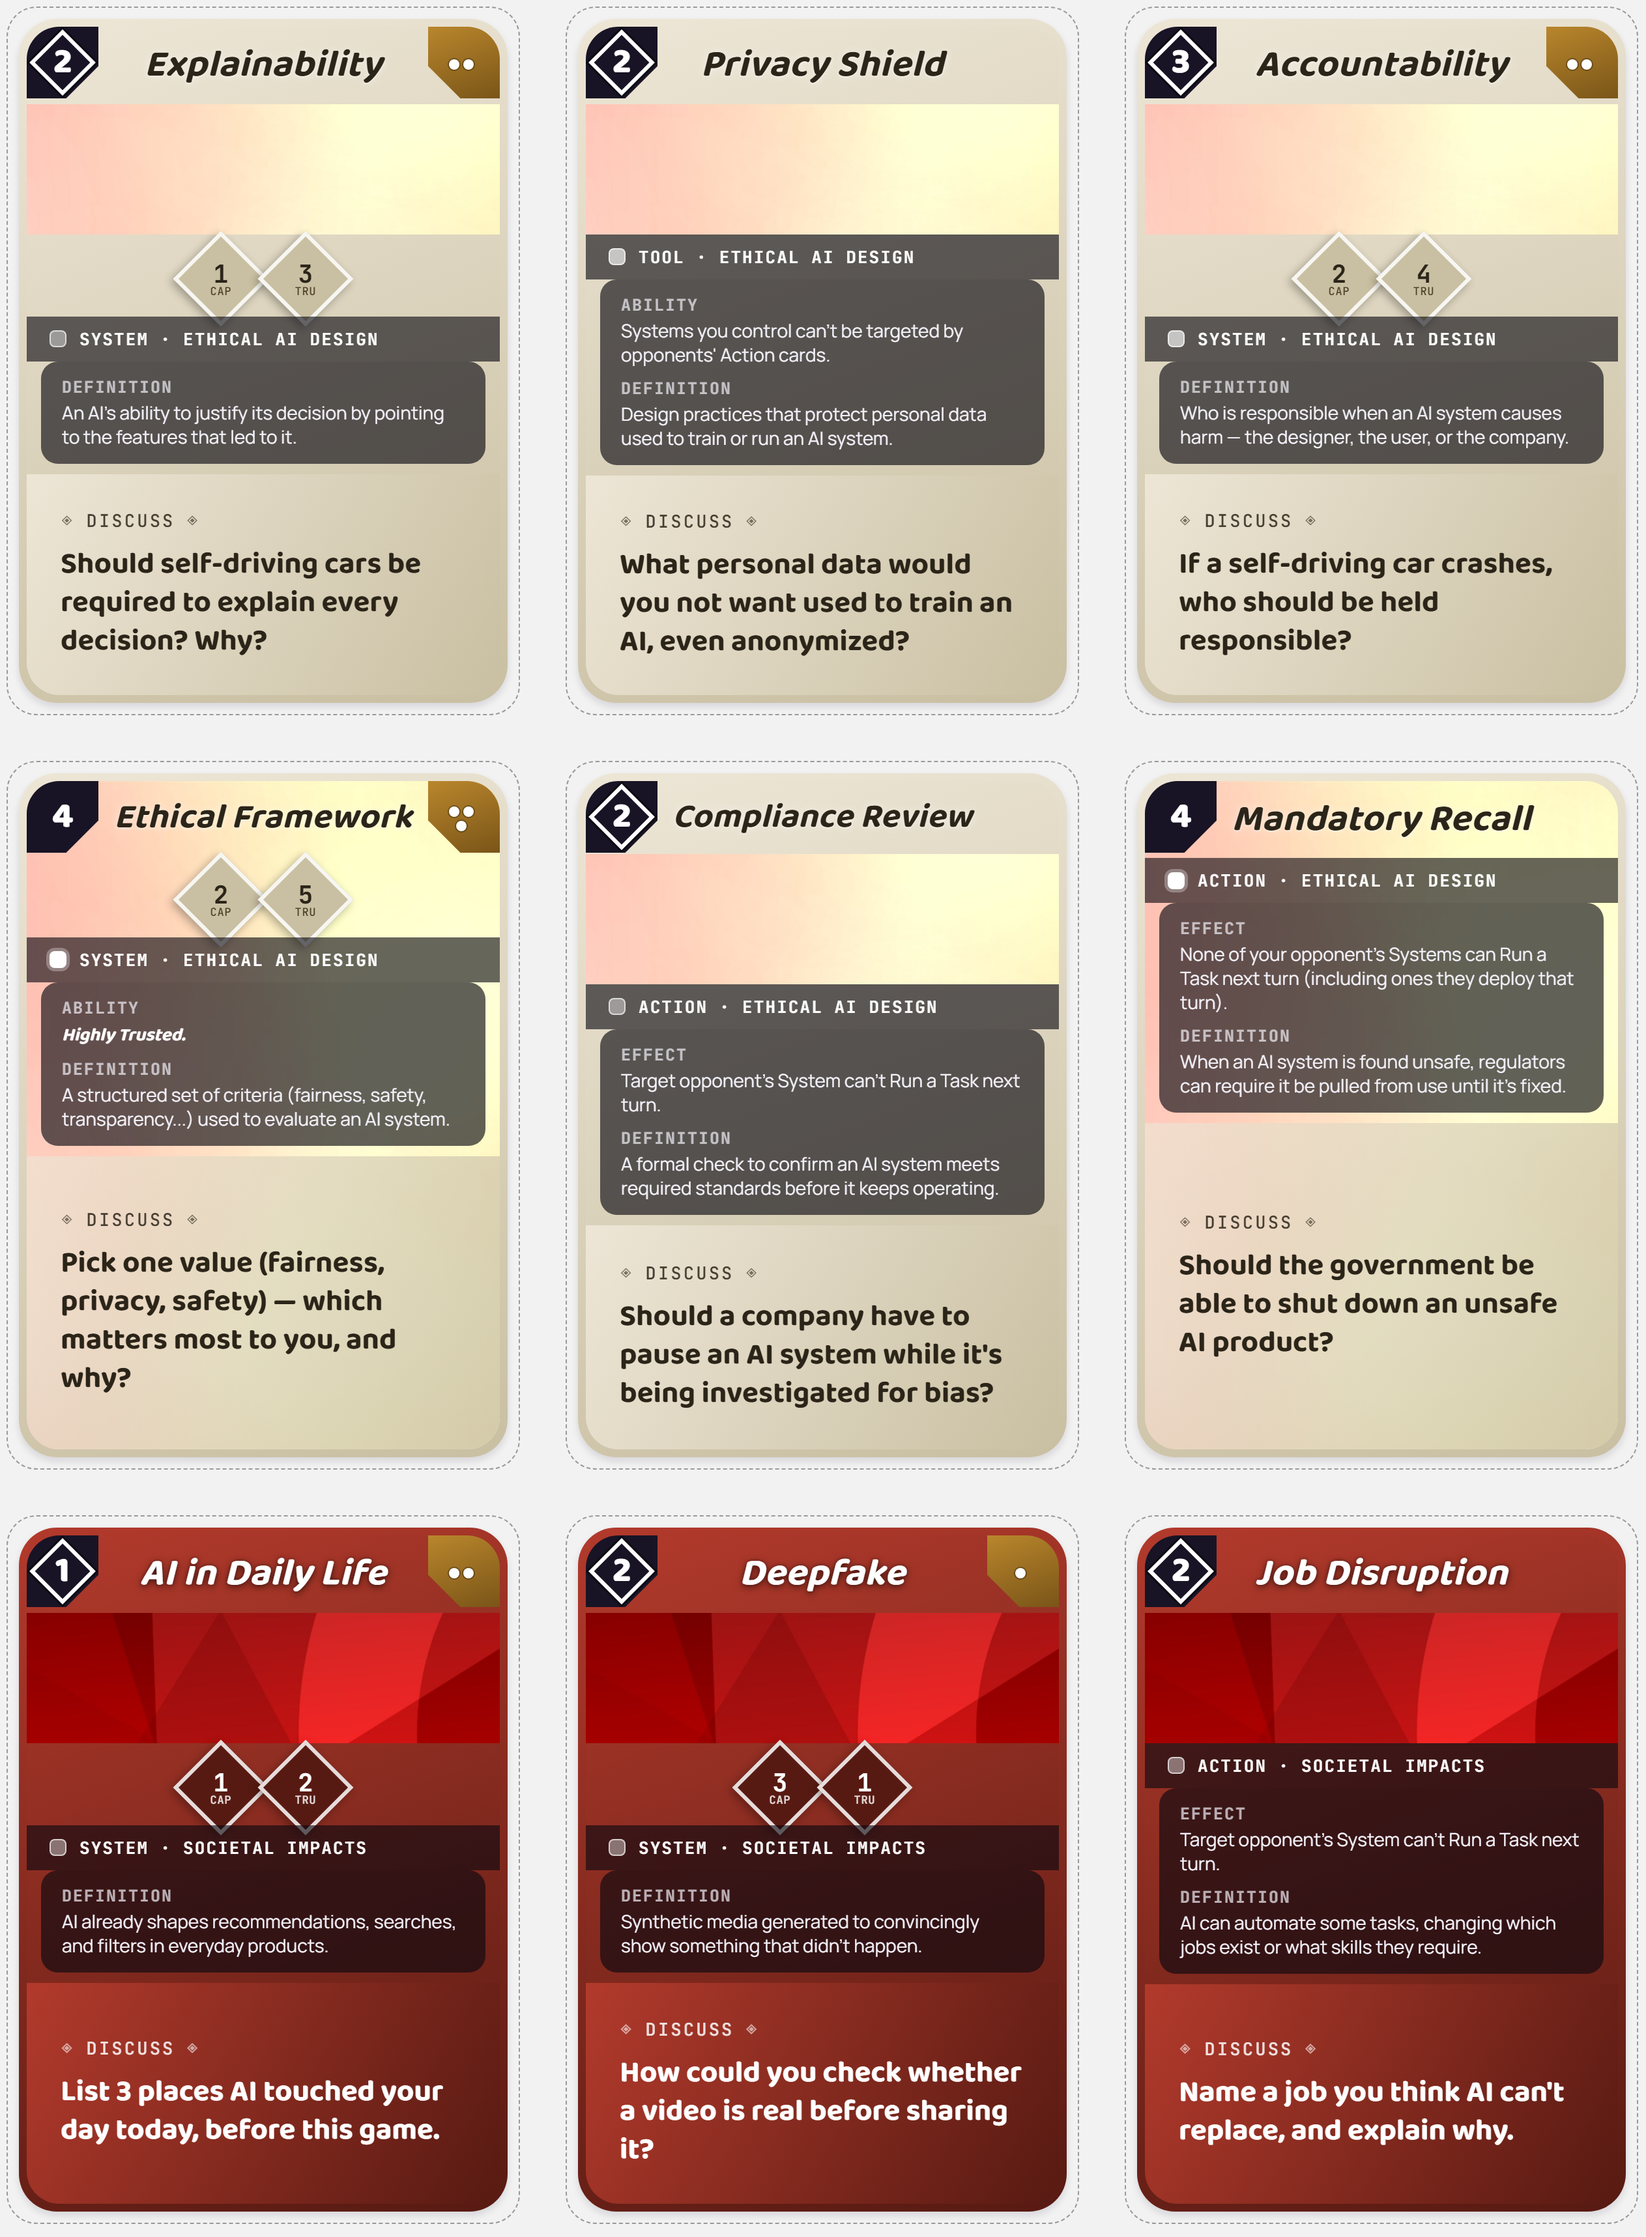
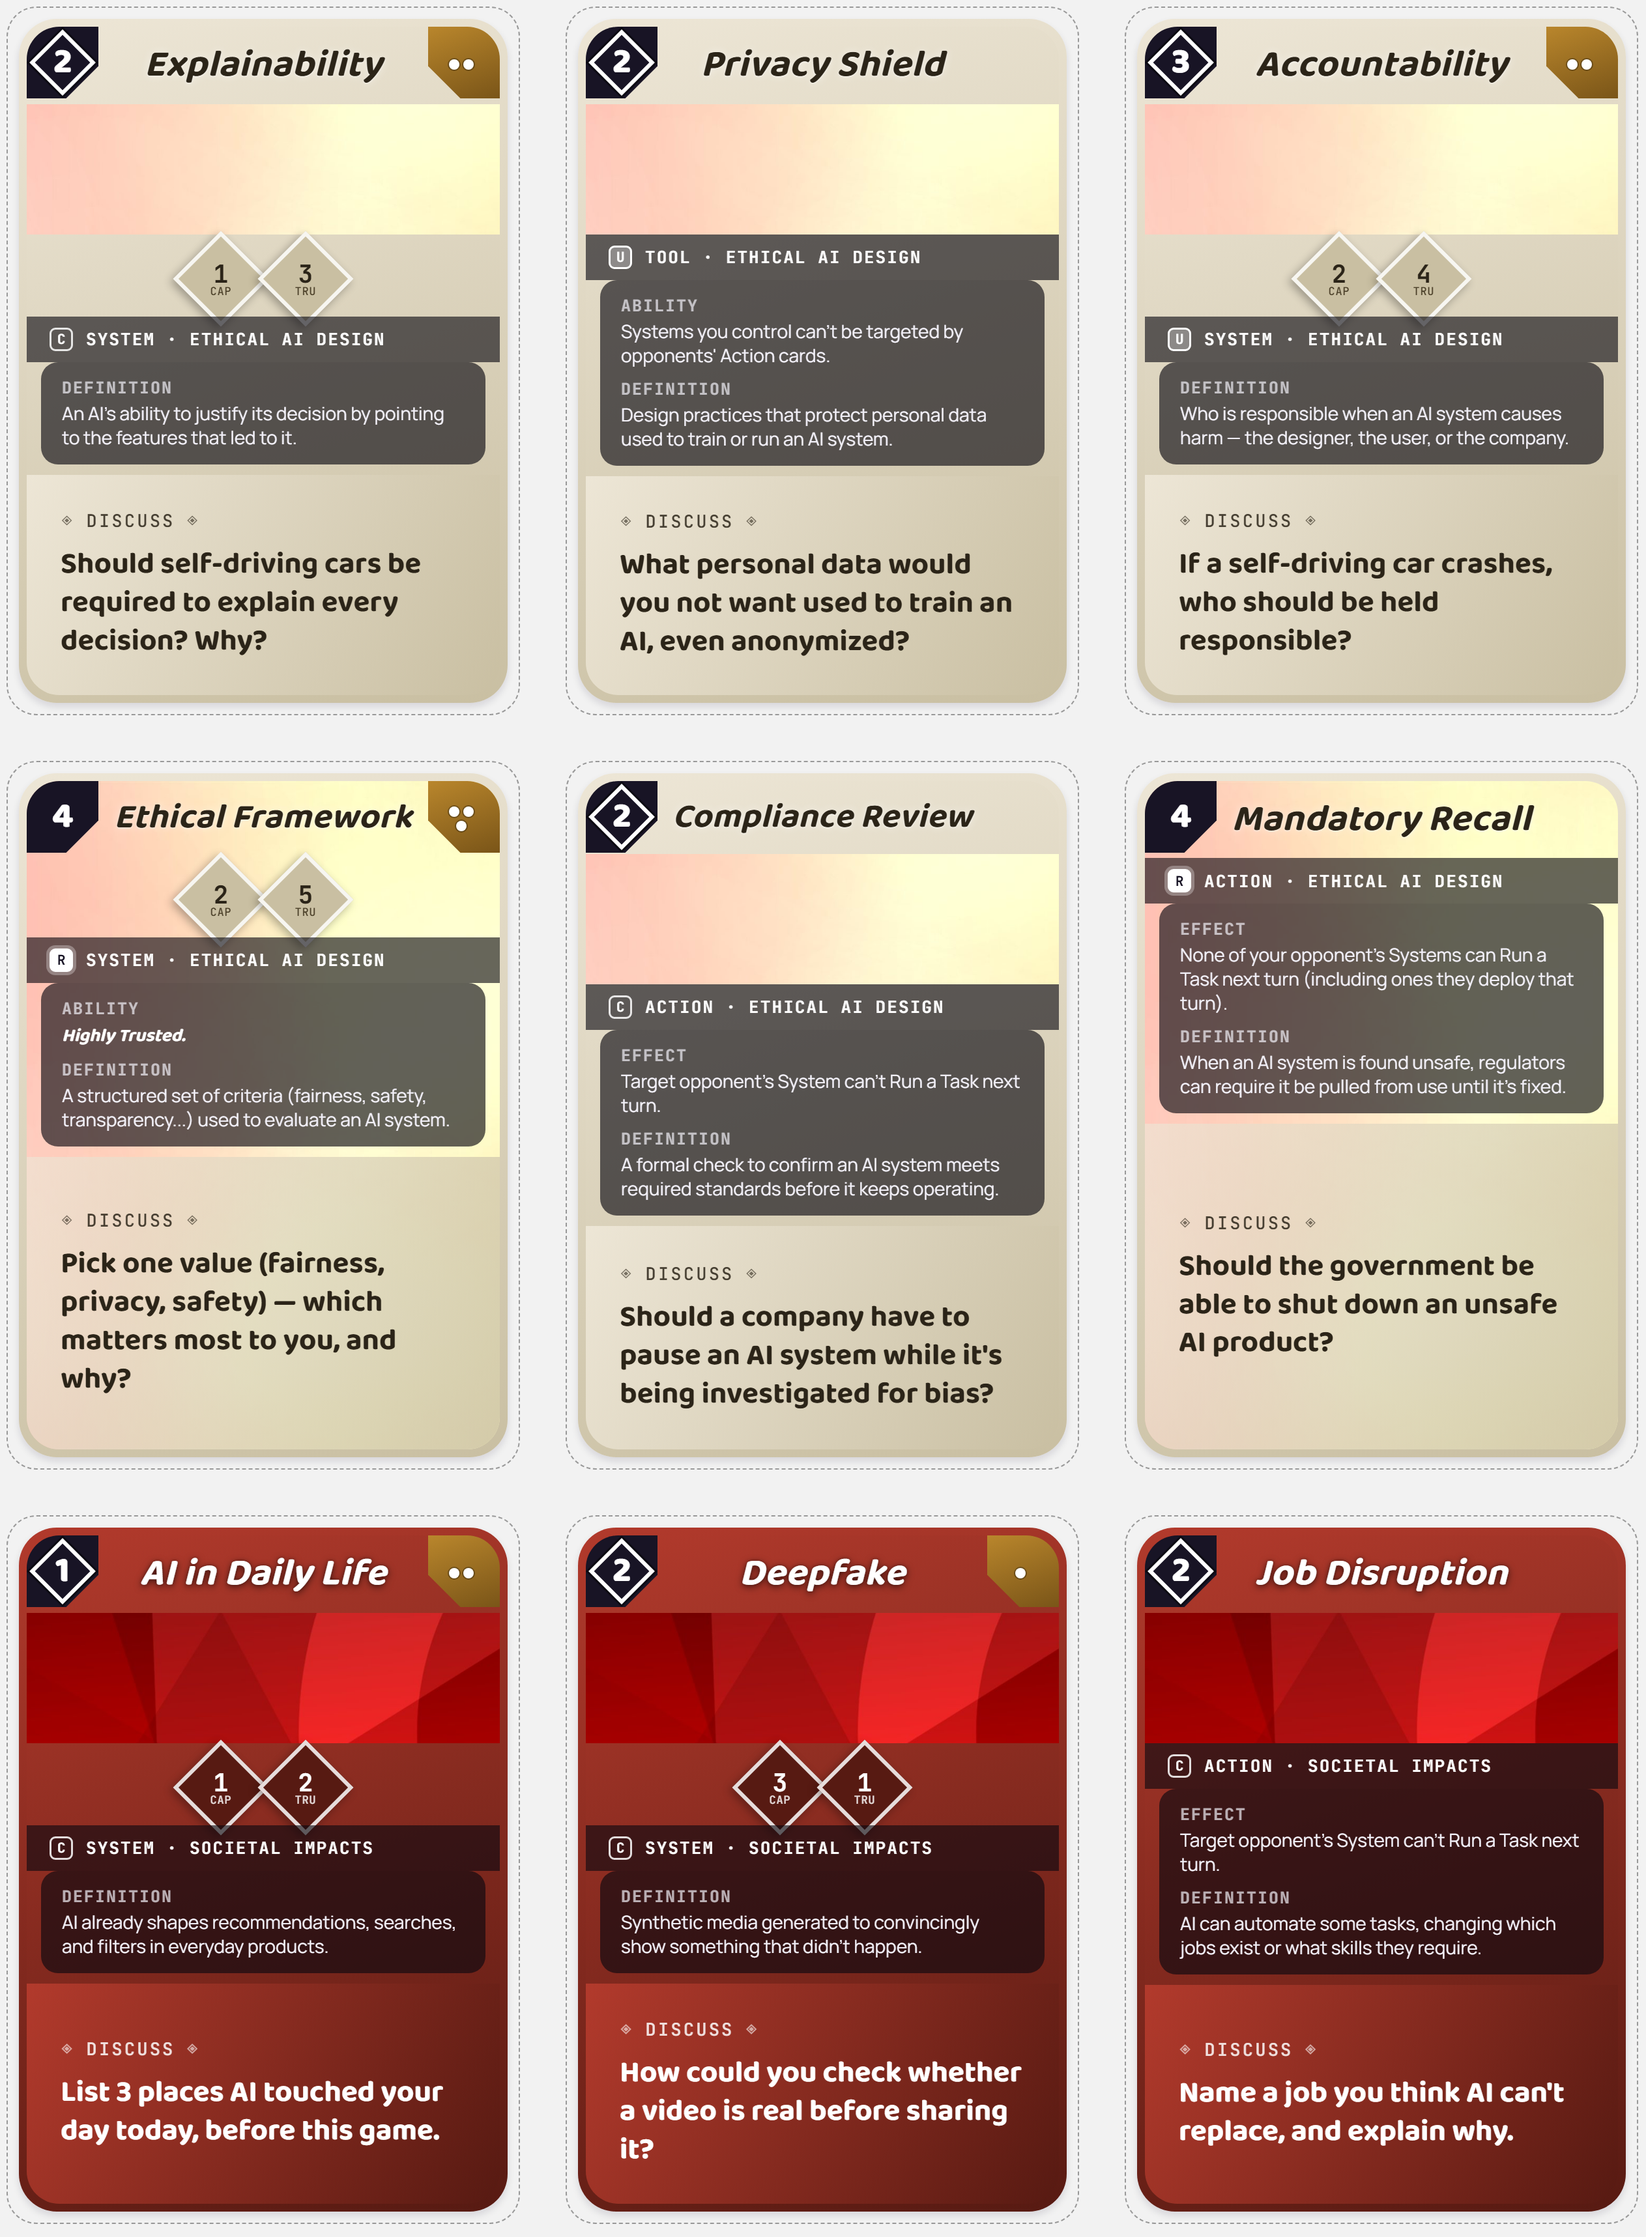
Show rarity as a letter in the gem: C, U, R, and a star for Chase
Brightness alone made Common vs. Uncommon hard to tell apart, especially
on a home printer. Gem is slightly larger so the letter reads in print.

diff --git a/design/print-sheet-source.html b/design/print-sheet-source.html
@@ -121,10 +121,17 @@
   .typebar{ position:relative; z-index:2; display:flex; align-items:center; gap:20px; padding:17px 35px; color:#fff;
     font-family:'JetBrains Mono',monospace; font-size:26px; letter-spacing:.08em; text-transform:uppercase; font-weight:700;
     background:rgba(10,8,16,.62); }
-  .typebar .gem{ width:26px;height:26px;border-radius:8px; background:rgba(255,255,255,.4); border:2px solid rgba(255,255,255,.65); flex:none; }
-  .typebar .gem.uncommon{ background:rgba(255,255,255,.65); }
-  .typebar .gem.rare{ background:#fff; box-shadow:0 0 0 5px rgba(255,255,255,.3); }
-  .typebar .gem.chase{ background:conic-gradient(from 90deg,var(--chase-a),var(--chase-b),var(--chase-c),var(--chase-a)); box-shadow:0 0 0 5px rgba(255,255,255,.6); }
+  /* rarity gem carries a letter: C / U / R, and a star for Chase */
+  .typebar .gem{ width:36px;height:36px;border-radius:9px; flex:none; display:inline-flex; align-items:center; justify-content:center;
+    background:transparent; border:3px solid rgba(255,255,255,.85); color:#fff;
+    font-family:'JetBrains Mono',monospace; font-size:21px; font-weight:700; line-height:1; letter-spacing:0; }
+  .typebar .gem::after{ content:"C"; }
+  .typebar .gem.uncommon{ background:rgba(255,255,255,.3); border-color:#fff; }
+  .typebar .gem.uncommon::after{ content:"U"; }
+  .typebar .gem.rare{ background:#fff; border-color:#fff; color:#181425; box-shadow:0 0 0 5px rgba(255,255,255,.3); }
+  .typebar .gem.rare::after{ content:"R"; }
+  .typebar .gem.chase{ background:conic-gradient(from 90deg,var(--chase-a),var(--chase-b),var(--chase-c),var(--chase-a)); border-color:#fff; color:#181425; box-shadow:0 0 0 5px rgba(255,255,255,.6); }
+  .typebar .gem.chase::after{ content:"\2605"; font-size:22px; }
 
   /* text lines — a frosted panel floating on the art, not a solid strip */
   .textlines{ position:relative; z-index:2; flex:none; margin:0 22px 16px; padding:23px 32px; display:flex; flex-direction:column; gap:17px;

diff --git a/sample_cards/index.html b/sample_cards/index.html
@@ -121,10 +121,17 @@
   .typebar{ position:relative; z-index:2; display:flex; align-items:center; gap:20px; padding:17px 35px; color:#fff;
     font-family:'JetBrains Mono',monospace; font-size:26px; letter-spacing:.08em; text-transform:uppercase; font-weight:700;
     background:rgba(10,8,16,.62); }
-  .typebar .gem{ width:26px;height:26px;border-radius:8px; background:rgba(255,255,255,.4); border:2px solid rgba(255,255,255,.65); flex:none; }
-  .typebar .gem.uncommon{ background:rgba(255,255,255,.65); }
-  .typebar .gem.rare{ background:#fff; box-shadow:0 0 0 5px rgba(255,255,255,.3); }
-  .typebar .gem.chase{ background:conic-gradient(from 90deg,var(--chase-a),var(--chase-b),var(--chase-c),var(--chase-a)); box-shadow:0 0 0 5px rgba(255,255,255,.6); }
+  /* rarity gem carries a letter: C / U / R, and a star for Chase */
+  .typebar .gem{ width:36px;height:36px;border-radius:9px; flex:none; display:inline-flex; align-items:center; justify-content:center;
+    background:transparent; border:3px solid rgba(255,255,255,.85); color:#fff;
+    font-family:'JetBrains Mono',monospace; font-size:21px; font-weight:700; line-height:1; letter-spacing:0; }
+  .typebar .gem::after{ content:"C"; }
+  .typebar .gem.uncommon{ background:rgba(255,255,255,.3); border-color:#fff; }
+  .typebar .gem.uncommon::after{ content:"U"; }
+  .typebar .gem.rare{ background:#fff; border-color:#fff; color:#181425; box-shadow:0 0 0 5px rgba(255,255,255,.3); }
+  .typebar .gem.rare::after{ content:"R"; }
+  .typebar .gem.chase{ background:conic-gradient(from 90deg,var(--chase-a),var(--chase-b),var(--chase-c),var(--chase-a)); border-color:#fff; color:#181425; box-shadow:0 0 0 5px rgba(255,255,255,.6); }
+  .typebar .gem.chase::after{ content:"\2605"; font-size:22px; }
 
   /* text lines — a frosted panel floating on the art, not a solid strip */
   .textlines{ position:relative; z-index:2; flex:none; margin:0 22px 16px; padding:23px 32px; display:flex; flex-direction:column; gap:17px;
